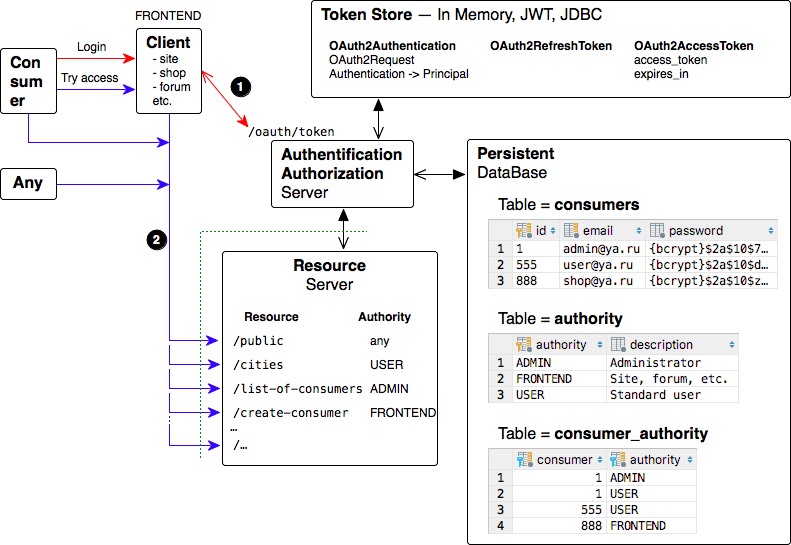
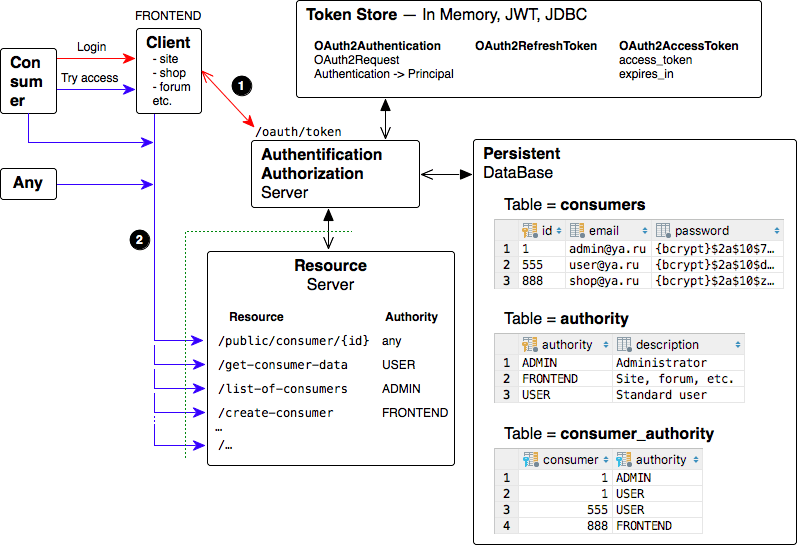
refactoring

diff --git a/src/test/java/ru/dwfe/net/authtion/test_util/Variables_for_AuthorityTest.java b/src/test/java/ru/dwfe/net/authtion/test_util/Variables_for_AuthorityTest.java
@@ -19,8 +19,6 @@ public class Variables_for_AuthorityTest
     {
         Map<String, Map<AuthorityLevel, Map<RequestMethod, Map<String, Object>>>> result = new HashMap<>();
 
-        result.put(resource_public, Map.of(ANY, Map.of(GET, Map.of())));
-        result.put(resource_cities, Map.of(USER, Map.of(GET, Map.of())));
         result.put(resource_listOfConsumers, Map.of(ADMIN, Map.of(GET, Map.of())));
         result.put(resource_checkConsumerEmail, Map.of(FRONTEND, Map.of(POST, Map.of("email", "user"))));
         result.put(resource_checkConsumerPass, Map.of(FRONTEND, Map.of(POST, Map.of("password", "some password"))));

diff --git a/src/main/java/ru/dwfe/net/authtion/ControllerAuthtionV1.java b/src/main/java/ru/dwfe/net/authtion/ControllerAuthtionV1.java
@@ -36,19 +36,6 @@ public class ControllerAuthtionV1
     @Autowired
     MailingRestoreConsumerPasswordRepository mailingRestoreConsumerPasswordRepository;
 
-    @GetMapping(resource_public)
-    public String publicResource()
-    {
-        return "{\"public\": true}";
-    }
-
-    @GetMapping(resource_cities)
-    @PreAuthorize("hasAuthority('USER')")
-    public String cities()
-    {
-        return "{\"cities\": true}";
-    }
-
     @PostMapping(resource_checkConsumerEmail)
     @PreAuthorize("hasAuthority('FRONTEND')")
     public String checkConsumerEmail(@RequestBody String body)

diff --git a/src/main/java/ru/dwfe/net/authtion/Global.java b/src/main/java/ru/dwfe/net/authtion/Global.java
@@ -6,8 +6,6 @@ public class Global
     /*
         Authtion RESOURCES
     */
-    public static final String                     resource_public = "/public";
-    public static final String                     resource_cities = "/cities";
 
     public static final String         resource_checkConsumerEmail = "/check-consumer-email";
     public static final String          resource_checkConsumerPass = "/check-consumer-pass";

diff --git a/README.md b/README.md
@@ -16,9 +16,9 @@ See `test\java\ru.dwfe.authtion` classes.
 
 ## AuthorityTest
 1. Login as: `user@ya.ru`, `admin@ya.ru`, `shop@ya.ru`
-2. Try to access as `user@ya.ru`, `admin@ya.ru`, `shop@ya.ru`, `not logged user` to resources:
-   * `/public`
-   * `/cities`
+2. Try to access as `user@ya.ru`, `admin@ya.ru`, `shop@ya.ru`, `not logged user` and `some more` to resources:
+   * `/public/consumer/{id}`
+   * `/get-consumer-data`
    * `/list-of-consumers`
    * `/create-consumer`
    * etc.
